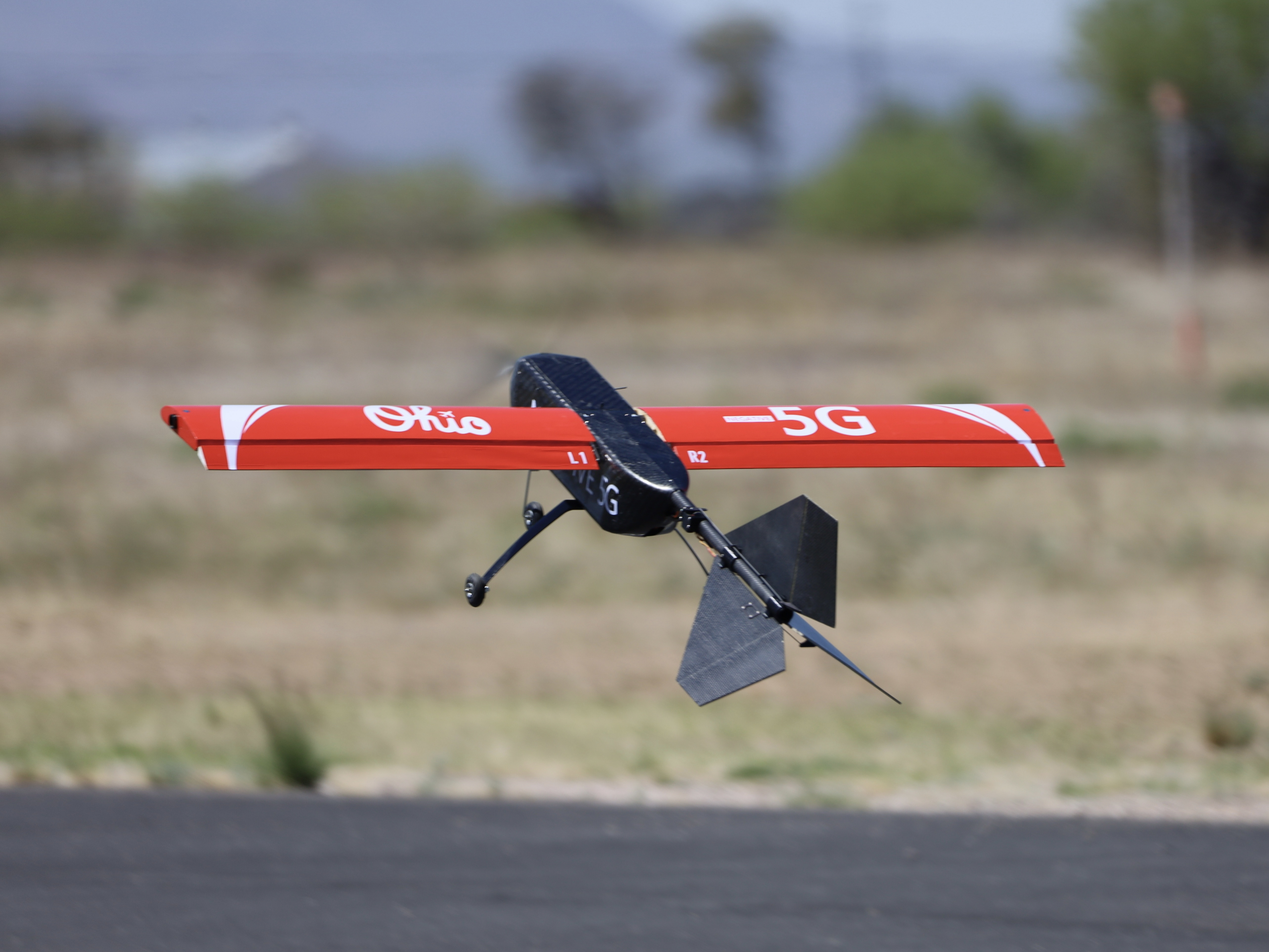
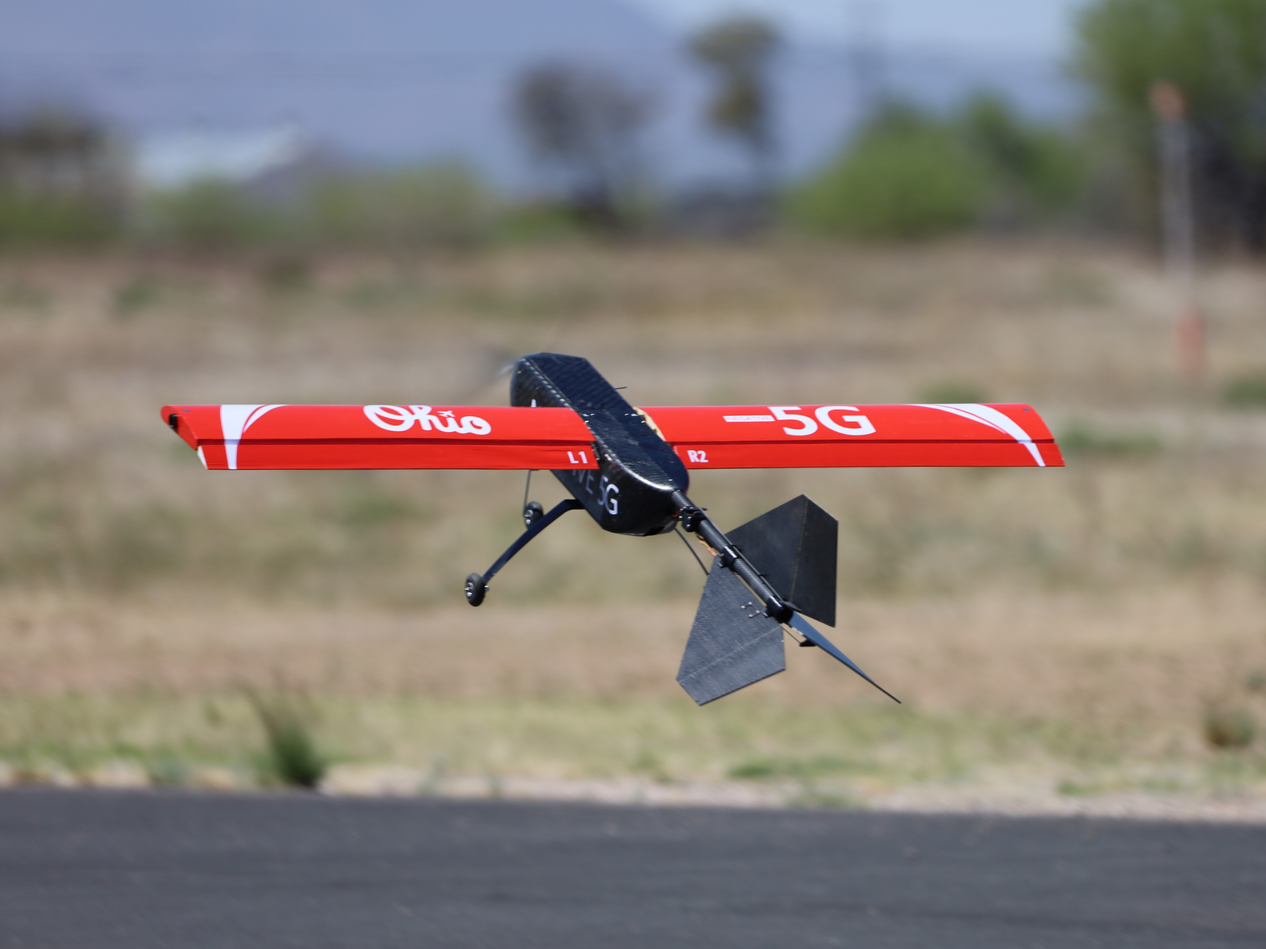
Filled out FEH robot page. Updated teaser project pictures to the same aspect ratio, and ordered projects as desired.

diff --git a/_projects/feh-robot.md b/_projects/feh-robot.md
@@ -1,0 +1,191 @@
+---
+title: "FEH Robot"
+excerpt: "Built and programmed a 3-wheel omnidirectional robot."
+layout: single
+collection: projects
+permalink: /projects/feh-robot/
+header:
+  overlay_color: "#000"
+  overlay_filter: "0.5"
+  overlay_image: /assets/images/feh-robot/robot_teaser.PNG
+  teaser: /assets/images/feh-robot/robot_teaser.PNG
+author_profile: true
+toc: true
+toc_sticky: true
+toc_label: "Jump to section"
+toc_icon: "plane-departure"
+classes: custom-font-size
+order: 4
+
+robot_intro:
+  - url:        /assets/images/feh-robot/robot_splash_crop4by3.PNG
+    image_path: /assets/images/feh-robot/robot_splash_crop4by3.PNG
+  - url:        /assets/images/feh-robot/robot_13.JPEG
+    image_path: /assets/images/feh-robot/robot_13.JPEG
+
+course_2:
+  - url:        /assets/images/feh-robot/course_2.JPEG
+    image_path: /assets/images/feh-robot/course_2.JPEG
+
+prototype:
+  - url:        /assets/images/feh-robot/robot_1.JPEG
+    image_path: /assets/images/feh-robot/robot_1.JPEG
+  - url:        /assets/images/feh-robot/robot_2.JPEG
+    image_path: /assets/images/feh-robot/robot_2.JPEG
+
+robot_1:
+  - url:        /assets/images/feh-robot/robot_3.JPEG
+    image_path: /assets/images/feh-robot/robot_3.JPEG
+  - url:        /assets/images/feh-robot/robot_4.JPEG
+    image_path: /assets/images/feh-robot/robot_4.JPEG
+
+robot_2:
+  - url:        /assets/images/feh-robot/robot_5.JPEG
+    image_path: /assets/images/feh-robot/robot_5.JPEG
+
+robot_3:
+  - url:        /assets/images/feh-robot/robot_6.JPEG
+    image_path: /assets/images/feh-robot/robot_6.JPEG
+  - url:        /assets/images/feh-robot/robot_7.JPEG
+    image_path: /assets/images/feh-robot/robot_7.JPEG
+
+robot_4:
+  - url:        /assets/images/feh-robot/robot_11.JPEG
+    image_path: /assets/images/feh-robot/robot_11.JPEG
+
+robot_5:
+  - url:        /assets/images/feh-robot/robot_10.JPEG
+    image_path: /assets/images/feh-robot/robot_10.JPEG
+
+jukebox:
+  - url:        /assets/images/feh-robot/jukebox_1.JPEG
+    image_path: /assets/images/feh-robot/jukebox_1.JPEG
+  - url:        /assets/images/feh-robot/robot_8.JPEG
+    image_path: /assets/images/feh-robot/robot_8.JPEG
+
+tray_1:
+  - url:        /assets/images/feh-robot/tray_2.JPEG
+    image_path: /assets/images/feh-robot/tray_2.JPEG
+  - url:        /assets/images/feh-robot/tray_3.JPEG
+    image_path: /assets/images/feh-robot/tray_3.JPEG
+
+tray_2:
+  - url:        /assets/images/feh-robot/tray_4.JPEG
+    image_path: /assets/images/feh-robot/tray_4.JPEG
+
+icecream:
+  - url:        /assets/images/feh-robot/ice_cream.JPEG
+    image_path: /assets/images/feh-robot/ice_cream.JPEG
+
+burger_1:
+  - url:        /assets/images/feh-robot/burger_3.JPEG
+    image_path: /assets/images/feh-robot/burger_3.JPEG
+  - url:        /assets/images/feh-robot/burger_4.JPEG
+    image_path: /assets/images/feh-robot/burger_4.JPEG
+
+burger_2:
+  - url:        /assets/images/feh-robot/burger_2.JPEG
+    image_path: /assets/images/feh-robot/burger_2.JPEG
+
+ticket_1:
+  - url:        /assets/images/feh-robot/ticket_4.JPEG
+    image_path: /assets/images/feh-robot/ticket_4.JPEG
+  - url:        /assets/images/feh-robot/ticket_5.JPEG
+    image_path: /assets/images/feh-robot/ticket_5.JPEG
+
+ticket_2:
+  - url:        /assets/images/feh-robot/ticket_1.JPEG
+    image_path: /assets/images/feh-robot/ticket_1.JPEG
+  - url:        /assets/images/feh-robot/ticket_2.JPEG
+    image_path: /assets/images/feh-robot/ticket_2.JPEG
+
+---
+
+## Intro
+Every year, the Fundamentals of Engineering for Honors (FEH) program at OSU hosts a robot competition for first-year engineering students. ~60 teams of four students each are tasked with making an autonomous robot complete a set of tasks on a course built by the TAs. The more tasks completed and the less time it takes, the more points awarded. 
+
+**Timeline:** February 2020 - April 2020
+
+{% include gallery id="robot_intro" %}
+
+## My Role
+I was assigned to a team of three students rather than the usual four, but what we lacked in heads, we made up for in drive. I was particularly excited about the project and spearheaded the design and programming of the robot. While I led many of the technical efforts, our success was a result of continuous collaboration and shared determination among the team. 
+
+I had so much fun with this project, and looked up to a lot of the TAs for all the work they had put into making the robot course. In a large part, this project inspired me to become a TA in the FEH program, which I continued throughout the rest of my time at school.
+
+## Constraints & The Course
+Each team was given a budget of $160, and could only select from a limited parts list available in the program. The robots were required to be autonomous and used the [FEH *Proteus*](https://u.osu.edu/fehproteus/) microcontroller, programmed in C++ with built-in motor speed controllers and I/O for sensors and servos. 
+
+The TAs put together a diner-themed course for the 2020 robot competition. It involved tasks such as placing a tray in the sink, operating a soft serve machine, and flipping burgers.
+
+We began by developing a high-level strategy for how to most efficiently move through the course while scoring all available points.
+
+{% include gallery id="course_2" caption="Birds-eye view of the diner-themed course. Our planned strategy drawn in pink." %}
+
+## Configuration
+Despite the slightly greater complexity, we chose a 3-wheel robot using omnidirectional wheels. This allowed us to improve our speed on the course by combining translational and rotational motion.
+
+We built a cardboard mockup to check the fit and placement of components, giving us confidence in our high-level design before starting to build the actual robot.
+
+{% include gallery id="prototype" caption="Cardboard mockup to check fit & placement of components." %}
+
+## The Build
+I designed the chassis to be a hexagonal box with tabs for easy part alignment and a removable top lid for access to electronics inside. The parts were laser cut out of 1/4" MDF and assembled with wood glue. The resulting chassis was robust and easy to work with.
+
+{% include gallery id="robot_1" caption="Parts were laser-cut for precision and ease of construction." %}
+{% include gallery id="robot_2" %}
+{% include gallery id="robot_3" caption="Installed motors and omnidirectional wheels on the bottom of the chassis." %}
+
+## Navigation
+We chose to use multiple methods of navigation, as each had their strengths and drawbacks. This proved to be useful, as we were able to utilize them together for efficient and accurate navigation. For example, we could: bump & align with a known wall, dead reckon until desired line detected, follow line until sensing a red or blue light, check position with RPS, refine position if out of tolerance, then perform the task knowing we are exactly where we want to be.
+
+| Navigation Method | Description |
+|-------------------|-------------|
+| Dead Reckoning    | Simplest, but least reliable. Only used to save time while traveling short distances. |
+| Bump Switches     | Simple and reliable - bump into and align with walls. Required a large flat surface nearby. |
+| Line Following    | Three IR sensors used to follow lines. Only certain parts of the course had lines available. |
+| Robot Positioning System (RPS) | Overhead camera used to track QR code on top of robot. Useful for refining position, but slower than other navigation methods due to latency and the move/check/repeat algorithm. |
+
+{% include gallery id="robot_4" caption="Top view showing QR code used for RPS and one side bump switch." %}
+{% include gallery id="robot_5" caption="Bottom view showing line following sensors and the two front bump switches." %}
+
+## Tasks & Mechanisms
+We kept our mechanisms simple, avoiding complexity and prioritizing reliability.
+
+### Jukebox
+The robot had to detect the color (red/blue, set randomly) of an LED built into the floor of the course, then push the corresponding button on the jukebox to play the correct song.
+
+{% include gallery id="jukebox" caption="Photocell detects LED color, then robot presses corresponding jukebox button." %}
+
+### Food Tray
+Each robot started with one red food tray, which it had to either place in the sink or on top of the trash can.
+
+{% include gallery id="tray_1" caption="Tray mechanism, fully retracted and fully extended." %}
+{% include gallery id="tray_2" caption="Our robot dropping the tray into the sink." %}
+
+### Ice Cream
+Each robot was sent a randomized signal through RPS indicating vanilla, chocolate, or twist soft-serve ice cream. The robot then had to flip the correct lever down, leave it down for at least 7 seconds, then flip it back up.
+
+{% include gallery id="icecream" caption="The same mechanism used for the tray is used here as well." %}
+
+### Burger Flip
+The robot had to flip a burger at the grill station. There were a few ways to do this, but we chose to rotate the mechanism using a dedicated servo and simple 3D printed prongs.
+
+{% include gallery id="burger_1" caption="Simple burger flip mechanism." %}
+{% include gallery id="burger_2" %}
+
+### Order Ticket
+The robot had to slide an order ticket to signal the completion of an order. The ticket was recessed behind a wall, so we needed a dedicated arm to reach it.
+
+{% include gallery id="ticket_1" caption="Ticket slider arm, extended vs. retracted." %}
+{% include gallery id="ticket_2" caption="The robot extends the arm, aligns with the walls, then slides the ticket." %}
+
+## Results
+Unfortunately, the competition was canceled due to COVID. However, our team was well-positioned leading up to competition; we were 1 of 2 teams to successfully complete the course before campus was closed. Of those two teams, our robot was significantly faster. 
+
+Even though we didn't get to competition day, I still enjoyed this project so much that I became a TA in the FEH program for the rest of my time in undergrad, helping run classes and competitions for the next generation of Buckeye engineers.
+
+## Video
+See our robot in action. This test run was filmed the day before spring break, after which campus was closed due to COVID.
+
+<iframe width="560" height="315" src="https://www.youtube.com/embed/lHj338RlukA?si=QaDHCz4V7gEu_DSl" title="YouTube video player" frameborder="0" allow="accelerometer; autoplay; clipboard-write; encrypted-media; gyroscope; picture-in-picture; web-share" referrerpolicy="strict-origin-when-cross-origin" allowfullscreen></iframe>

diff --git a/index.md b/index.md
@@ -13,21 +13,21 @@ header:
 excerpt: "What I've made - and what I've learned making it."
 
 feature_row:
-  - image_path: /assets/images/DBF_2023/DBF_N5G_hero_shot_4by3.jpg
+  - image_path: /assets/images/DBF_2023/DBF_N5G_hero_shot_16by9.jpg
     title: "Design/Build/Fly - 2023"
     excerpt: "Led our team to a top-10 finish in international student competition."
     url: "/projects/DBF2023/"
     btn_label: "View Project"
     btn_class: "btn--primary"
 
-  - image_path: /assets/images/P-38/me_with_P38.JPEG
+  - image_path: /assets/images/P-38/me_with_P38_splash_crop.JPEG
     title: "P-38 Lightning"
     excerpt: "8-foot wingspan RC model, built entirely from scratch."
     url: "/projects/P-38/"
     btn_label: "View Project"
     btn_class: "btn--primary"
 
-  - image_path: /assets/images/bluebird/bluebird_iso_background.JPEG
+  - image_path: /assets/images/bluebird/bluebird_teaser.JPEG
     title: "IR-Imaging UAS"
     excerpt: "Custom autonomous thermal imaging drone for wildfire research."
     url: "/projects/bluebird/"

diff --git a/_projects/rc-projects.md b/_projects/rc-projects.md
@@ -7,15 +7,15 @@ permalink: /projects/rc-projects/
 header:
   overlay_color: "#000"
   overlay_filter: "0.5"
-  overlay_image: /assets/images/rc-projects/lucci/1/lucci_2.JPEG
-  teaser: /assets/images/rc-projects/lucci/1/lucci_2.JPEG
+  overlay_image: /assets/images/rc-projects/lucci/1/lucci_teaser.JPEG
+  teaser: /assets/images/rc-projects/lucci/1/lucci_teaser.JPEG
 author_profile: true
 toc: true
 toc_sticky: true
 toc_label: "Jump to section"
 toc_icon: "plane-departure"
 classes: custom-font-size
-order: 4
+order: 6
 
 lucci_1:
   - url:        /assets/images/rc-projects/lucci/1/lucci_1.JPEG

diff --git a/_projects/custom-gifts.md b/_projects/custom-gifts.md
@@ -7,15 +7,15 @@ permalink: /projects/custom-gifts/
 header:
   overlay_color: "#000"
   overlay_filter: "0.5"
-  overlay_image: /assets/images/custom-gifts/hexhike/hex_3.JPEG
-  teaser: /assets/images/custom-gifts/hexhike/hex_3.JPEG
+  overlay_image: /assets/images/custom-gifts/hexhike/hex_teaser.JPEG
+  teaser: /assets/images/custom-gifts/hexhike/hex_teaser.JPEG
 author_profile: true
 toc: true
 toc_sticky: true
 toc_label: "Jump to section"
 toc_icon: "plane-departure"
 classes: custom-font-size
-order: 5
+order: 7
 
 hexhike_1:
   - url:        /assets/images/custom-gifts/hexhike/hex_1.JPEG

diff --git a/_projects/bluebird.md b/_projects/bluebird.md
@@ -7,8 +7,8 @@ permalink: /projects/bluebird/
 header:
   overlay_color: "#000"
   overlay_filter: "0.5"
-  overlay_image: /assets/images/bluebird/bluebird_iso_background.JPEG
-  teaser: /assets/images/bluebird/bluebird_iso_background.JPEG
+  overlay_image: /assets/images/bluebird/bluebird_teaser.JPEG
+  teaser: /assets/images/bluebird/bluebird_teaser.JPEG
 author_profile: true
 toc: true
 toc_sticky: true

diff --git a/_projects/P-38.md b/_projects/P-38.md
@@ -70,8 +70,7 @@ After building my 1:6-scale RC BF-109, I had to build an Allied fighter to pair 
 
 To this day, despite how long ago I built it, this is my favorite plane in my collection. No CAD, no fancy equipment - just an Exacto knife and a dream on a 14-year-old’s budget.
 
-Timeline:
-November 2015 - January 2017
+**Timeline:** November 2015 - January 2017
 
 ## Specifications
 

diff --git a/_projects/DBF_2023.md b/_projects/DBF_2023.md
@@ -8,7 +8,7 @@ header:
   overlay_color: "#000"
   overlay_filter: "0.5"
   overlay_image: /assets/images/DBF_2023/DBF_N5G_hero_shot_1.jpg
-  teaser: /assets/images/DBF_2023/DBF_N5G_hero_shot_4by3.jpg
+  teaser: /assets/images/DBF_2023/DBF_N5G_hero_shot_16by9.jpg
 author_profile: true
 toc: true
 toc_sticky: true
